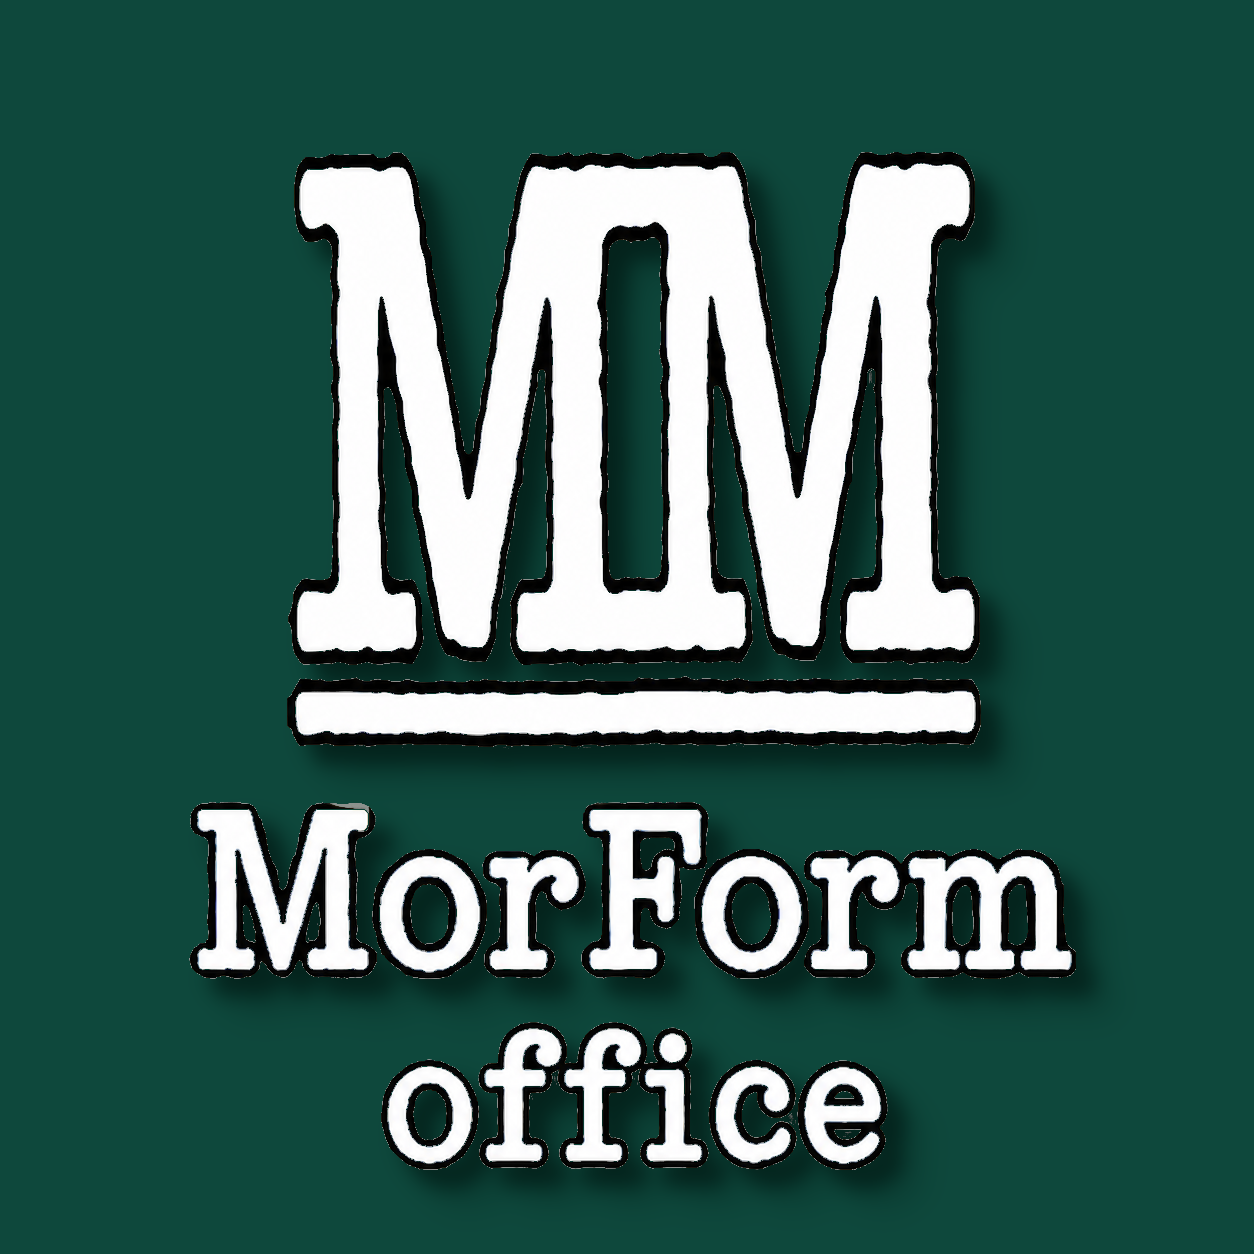
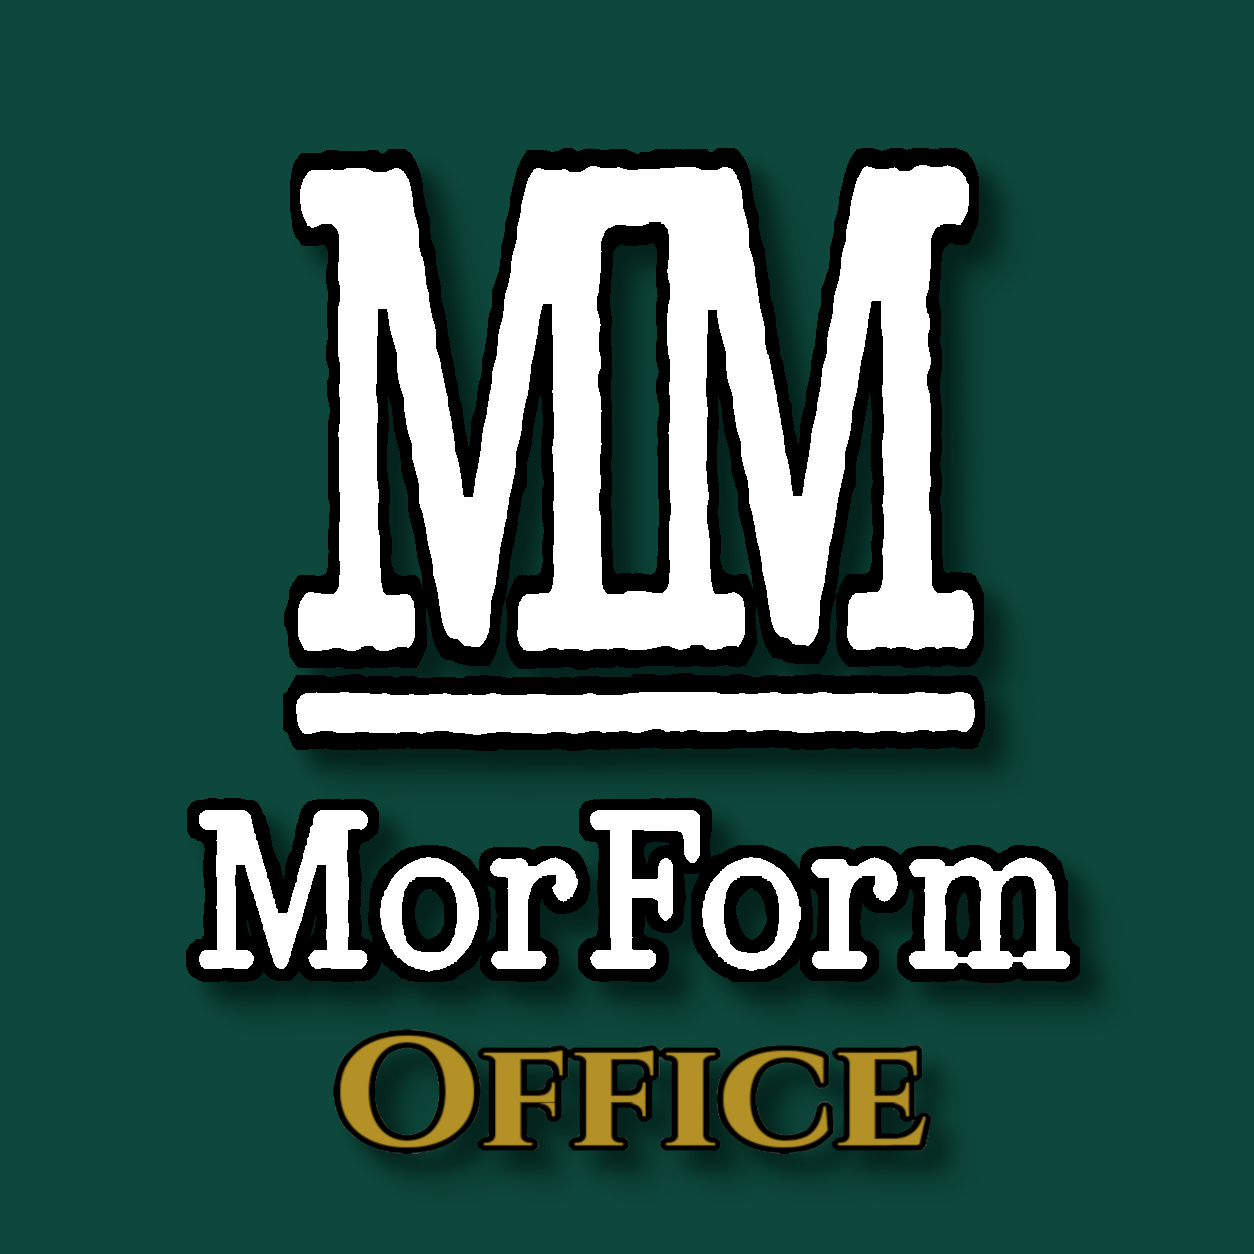
M morform-help.html, M morform-manager-help.html, M morform-office-help.html, M morform-office.png

diff --git a/morform-office-help.html b/morform-office-help.html
@@ -745,6 +745,47 @@
         <h3>Report routing</h3>
         <p>Set up forwarding addresses in <strong>Settings → Report Routing</strong>. When you approve a report, expense summaries can be forwarded to Accounting and safety document summaries to your Safety Manager — your default mail client opens automatically with the pre-composed message.</p>
 
+        <h3>Incident Report Sign-off</h3>
+        <div class="callout callout-imp">
+          <span class="ico">🚨</span>
+          <span>When a report contains an incident report, a red <strong>🚨 INCIDENT</strong> badge appears on the report row. Alberta OH&S requires the employer to investigate reportable incidents and document corrective actions. The sign-off in MorForm creates this record.</span>
+        </div>
+        <p>Open the report — a dedicated red sign-off section appears below the safety documents. For each incident:</p>
+        <div class="steps">
+          <div class="step">
+            <div class="step-num">1</div>
+            <div>
+              <div class="step-title">Review the incident details</div>
+              <div class="step-desc">The supervisor's incident title, date, and description are shown.</div>
+            </div>
+          </div>
+          <div class="step">
+            <div class="step-num">2</div>
+            <div>
+              <div class="step-title">Enter corrective actions</div>
+              <div class="step-desc">Describe what was done, root cause, who is responsible for follow-up, and by when. Be specific — this is your investigation record.</div>
+            </div>
+          </div>
+          <div class="step">
+            <div class="step-num">3</div>
+            <div>
+              <div class="step-title">Click ✅ Sign Off</div>
+              <div class="step-desc">Records your name, timestamp, and corrective action notes permanently.</div>
+            </div>
+          </div>
+          <div class="step">
+            <div class="step-num">4</div>
+            <div>
+              <div class="step-title">Click 📄 Export PDF</div>
+              <div class="step-desc">Generates a full incident report document including your sign-off. Opens in your browser — use File → Print → Save as PDF. Keep this on file for OHS compliance. Can be provided to an OHS officer on request.</div>
+            </div>
+          </div>
+        </div>
+        <div class="callout callout-note">
+          <span class="ico">ℹ️</span>
+          <span>Incident sign-off is separate from report approval. Sign off the incident first, then approve the full report. Sign-off cannot be undone.</span>
+        </div>
+
         <div class="callout callout-warn">
           <span class="ico">⚠️</span>
           <span>The same <span class="file-badge">.morrep</span> file cannot be imported twice — MorForm Office detects duplicates by supervisor email, period dates, and job IDs.</span>

diff --git a/morform-manager-help.html b/morform-manager-help.html
@@ -635,15 +635,28 @@
             <tr><td>Time entries</td><td>Every hour by date and job site, with OT and stat holiday flags</td></tr>
             <tr><td>Expenses</td><td>All amounts by category with reimbursable total</td></tr>
             <tr><td>Safety summary</td><td>Count of each form type — not the actual PDFs</td></tr>
+            <tr><td>Incident reports</td><td>Full incident details included when present — triggers the sign-off workflow</td></tr>
             <tr><td>Job statuses</td><td>Current status of dispatched jobs — your pipeline updates on approval</td></tr>
             <tr><td>Trade scope completions</td><td>Which trades have had their scope marked complete by the supervisor</td></tr>
             <tr><td>Unmatched jobs</td><td>Hours on jobs not dispatched from your app — flagged but still visible</td></tr>
           </tbody>
         </table>
+
+        <h3>Incident Report Sign-off</h3>
+        <div class="callout callout-imp"><span class="ico">🚨</span><span>When a report contains an incident report, a red <strong>🚨 INCIDENT</strong> badge appears on the report card. Alberta OH&S requires the employer to investigate and document corrective actions. The sign-off in MorForm creates this record.</span></div>
+        <p>Open the report — a dedicated red sign-off section appears below the safety documents. For each incident:</p>
+        <div class="steps">
+          <div class="step"><div class="step-num">1</div><div><div class="step-title">Review the incident description</div><div class="step-desc">The supervisor's incident details, date, location, and notes are shown.</div></div></div>
+          <div class="step"><div class="step-num">2</div><div><div class="step-title">Enter corrective actions</div><div class="step-desc">Describe what was done, root cause, who is responsible for follow-up, and by when.</div></div></div>
+          <div class="step"><div class="step-num">3</div><div><div class="step-title">Tap ✅ Sign Off</div><div class="step-desc">Records your name, timestamp, and notes permanently. This is your investigation record — it can be provided to an OHS officer on request.</div></div></div>
+        </div>
+        <div class="callout callout-note"><span class="ico">ℹ️</span><span>Incident sign-off is separate from report approval. Sign off the incident first, then approve the full report. Sign-off cannot be undone.</span></div>
+
         <h3>Approving a Report</h3>
         <div class="steps">
           <div class="step"><div class="step-num">1</div><div><div class="step-title">Review the report</div><div class="step-desc">Check hours by job, expense amounts, and any unmatched job warnings.</div></div></div>
-          <div class="step"><div class="step-num">2</div><div><div class="step-title">Tap ✓ Approve &amp; Commit</div><div class="step-desc">Hours and expenses commit to job actuals. Job statuses update. Supervisor is auto-added to Crew directory if new. Report is marked reviewed.</div></div></div>
+          <div class="step"><div class="step-num">2</div><div><div class="step-title">Sign off any incidents first</div><div class="step-desc">If a red 🚨 section appears, complete the incident sign-off before approving.</div></div></div>
+          <div class="step"><div class="step-num">3</div><div><div class="step-title">Tap ✓ Approve &amp; Commit</div><div class="step-desc">Hours and expenses commit to job actuals. Job statuses update. Supervisor is auto-added to Crew directory if new. Report is marked reviewed.</div></div></div>
         </div>
         <div class="callout callout-imp"><span class="ico">🚨</span><span>Approval cannot be undone. Hours and expenses lock into the job cost record permanently. Review carefully before approving — especially check for unmatched job IDs and unusually large expenses.</span></div>
       </div>
@@ -701,7 +714,8 @@
         <table class="tbl">
           <thead><tr><th>What</th><th>Goes to</th></tr></thead>
           <tbody>
-            <tr><td>Safety form PDFs (FLHA, ERP, Incident, Inspection)</td><td>Their Safety Manager</td></tr>
+            <tr><td>Safety form PDFs (FLHA, ERP, Inspection)</td><td>Their Safety Manager</td></tr>
+            <tr><td>Incident Report PDFs</td><td>Their Safety Manager <strong>and</strong> you (Project Manager) — triggers sign-off workflow in your app</td></tr>
             <tr><td>Timesheet PDF + CSV</td><td>Their Manager/Supervisor email</td></tr>
             <tr><td>Expense report PDF + CSV</td><td>Their Accounting email</td></tr>
             <tr><td>Progress photos + notes</td><td>You (Project Manager)</td></tr>

diff --git a/morform-help.html b/morform-help.html
@@ -553,9 +553,11 @@
           <div class="step"><div class="step-num">3</div><div><div class="step-title">Page 3 — Cause &amp; Contributing Factors</div><div class="step-desc">Describe the root cause and any contributing factors. Critical for prevention.</div></div></div>
           <div class="step"><div class="step-num">4</div><div><div class="step-title">Page 4 — Corrective Actions</div><div class="step-desc">What immediate action was taken? What corrective action will prevent recurrence? Who is responsible and by when?</div></div></div>
           <div class="step"><div class="step-num">5</div><div><div class="step-title">Page 5 — Witnesses &amp; Signatures</div><div class="step-desc">List any witnesses. Sign and date. Add signatures from anyone involved.</div></div></div>
-          <div class="step"><div class="step-num">6</div><div><div class="step-title">Tap Save &amp; Email to Safety Manager</div><div class="step-desc">The report is saved and the persistent alert clears once it has been emailed.</div></div></div>
+          <div class="step"><div class="step-num">6</div><div><div class="step-title">Tap Save</div><div class="step-desc">The report is saved to your Safety list. A persistent alert appears on the Safety tab until it has been emailed.</div></div></div>
+          <div class="step"><div class="step-num">7</div><div><div class="step-title">Open the saved report → Email</div><div class="step-desc">Tap <strong>📧 Email to Safety Manager &amp; PM</strong>. Your mail app opens pre-addressed to <em>both</em> your Safety Manager and your Project Manager with the PDF attached. Incident reports are the only safety form that goes to both.</div></div></div>
         </div>
-        <div class="callout callout-imp"><span class="ico">🚨</span><span>Do not delay filing an incident report. The app will show an urgent alert on the Safety tab until the report is emailed. Your obligation under the applicable OHS authority exists regardless of how minor the incident appears.</span></div>
+        <div class="callout callout-imp"><span class="ico">🚨</span><span>Do not delay filing an incident report. The app shows a persistent alert until it has been emailed. Your obligation under the applicable OHS authority exists regardless of how minor the incident appears.</span></div>
+        <div class="callout callout-note"><span class="ico">ℹ️</span><span>Your Project Manager will receive the incident PDF and is required to review it and record corrective actions in their MorForm Manager or MorForm Office app. This creates the written investigation record required by Alberta OH&S.</span></div>
       </div>
     </section>
 
@@ -653,7 +655,7 @@
           <div class="step"><div class="step-num">5</div><div><div class="step-title">Send a job report</div><div class="step-desc">Open the job in the Jobs tab → tap 📤 Send → confirm → .morrep email sent to your PM → PM taps the attachment → imports to their Inbox.</div></div></div>
           <div class="step"><div class="step-num">6</div><div><div class="step-title">PM approves</div><div class="step-desc">Your hours and expenses commit to the job's budget vs. actual tracking. Job statuses update automatically in your PM's app.</div></div></div>
         </div>
-        <div class="callout callout-note"><span class="ico">ℹ️</span><span>Your PM can see a summary of how many safety forms you completed each period (counts by type) but not the actual form content. Safety PDFs go directly to your Safety Manager only.</span></div>
+        <div class="callout callout-note"><span class="ico">ℹ️</span><span>Your PM can see a summary of how many safety forms you completed each period (counts by type) but not the actual form content — except for Incident Reports, which are emailed directly to your PM as well as your Safety Manager.</span></div>
       </div>
     </section>
 